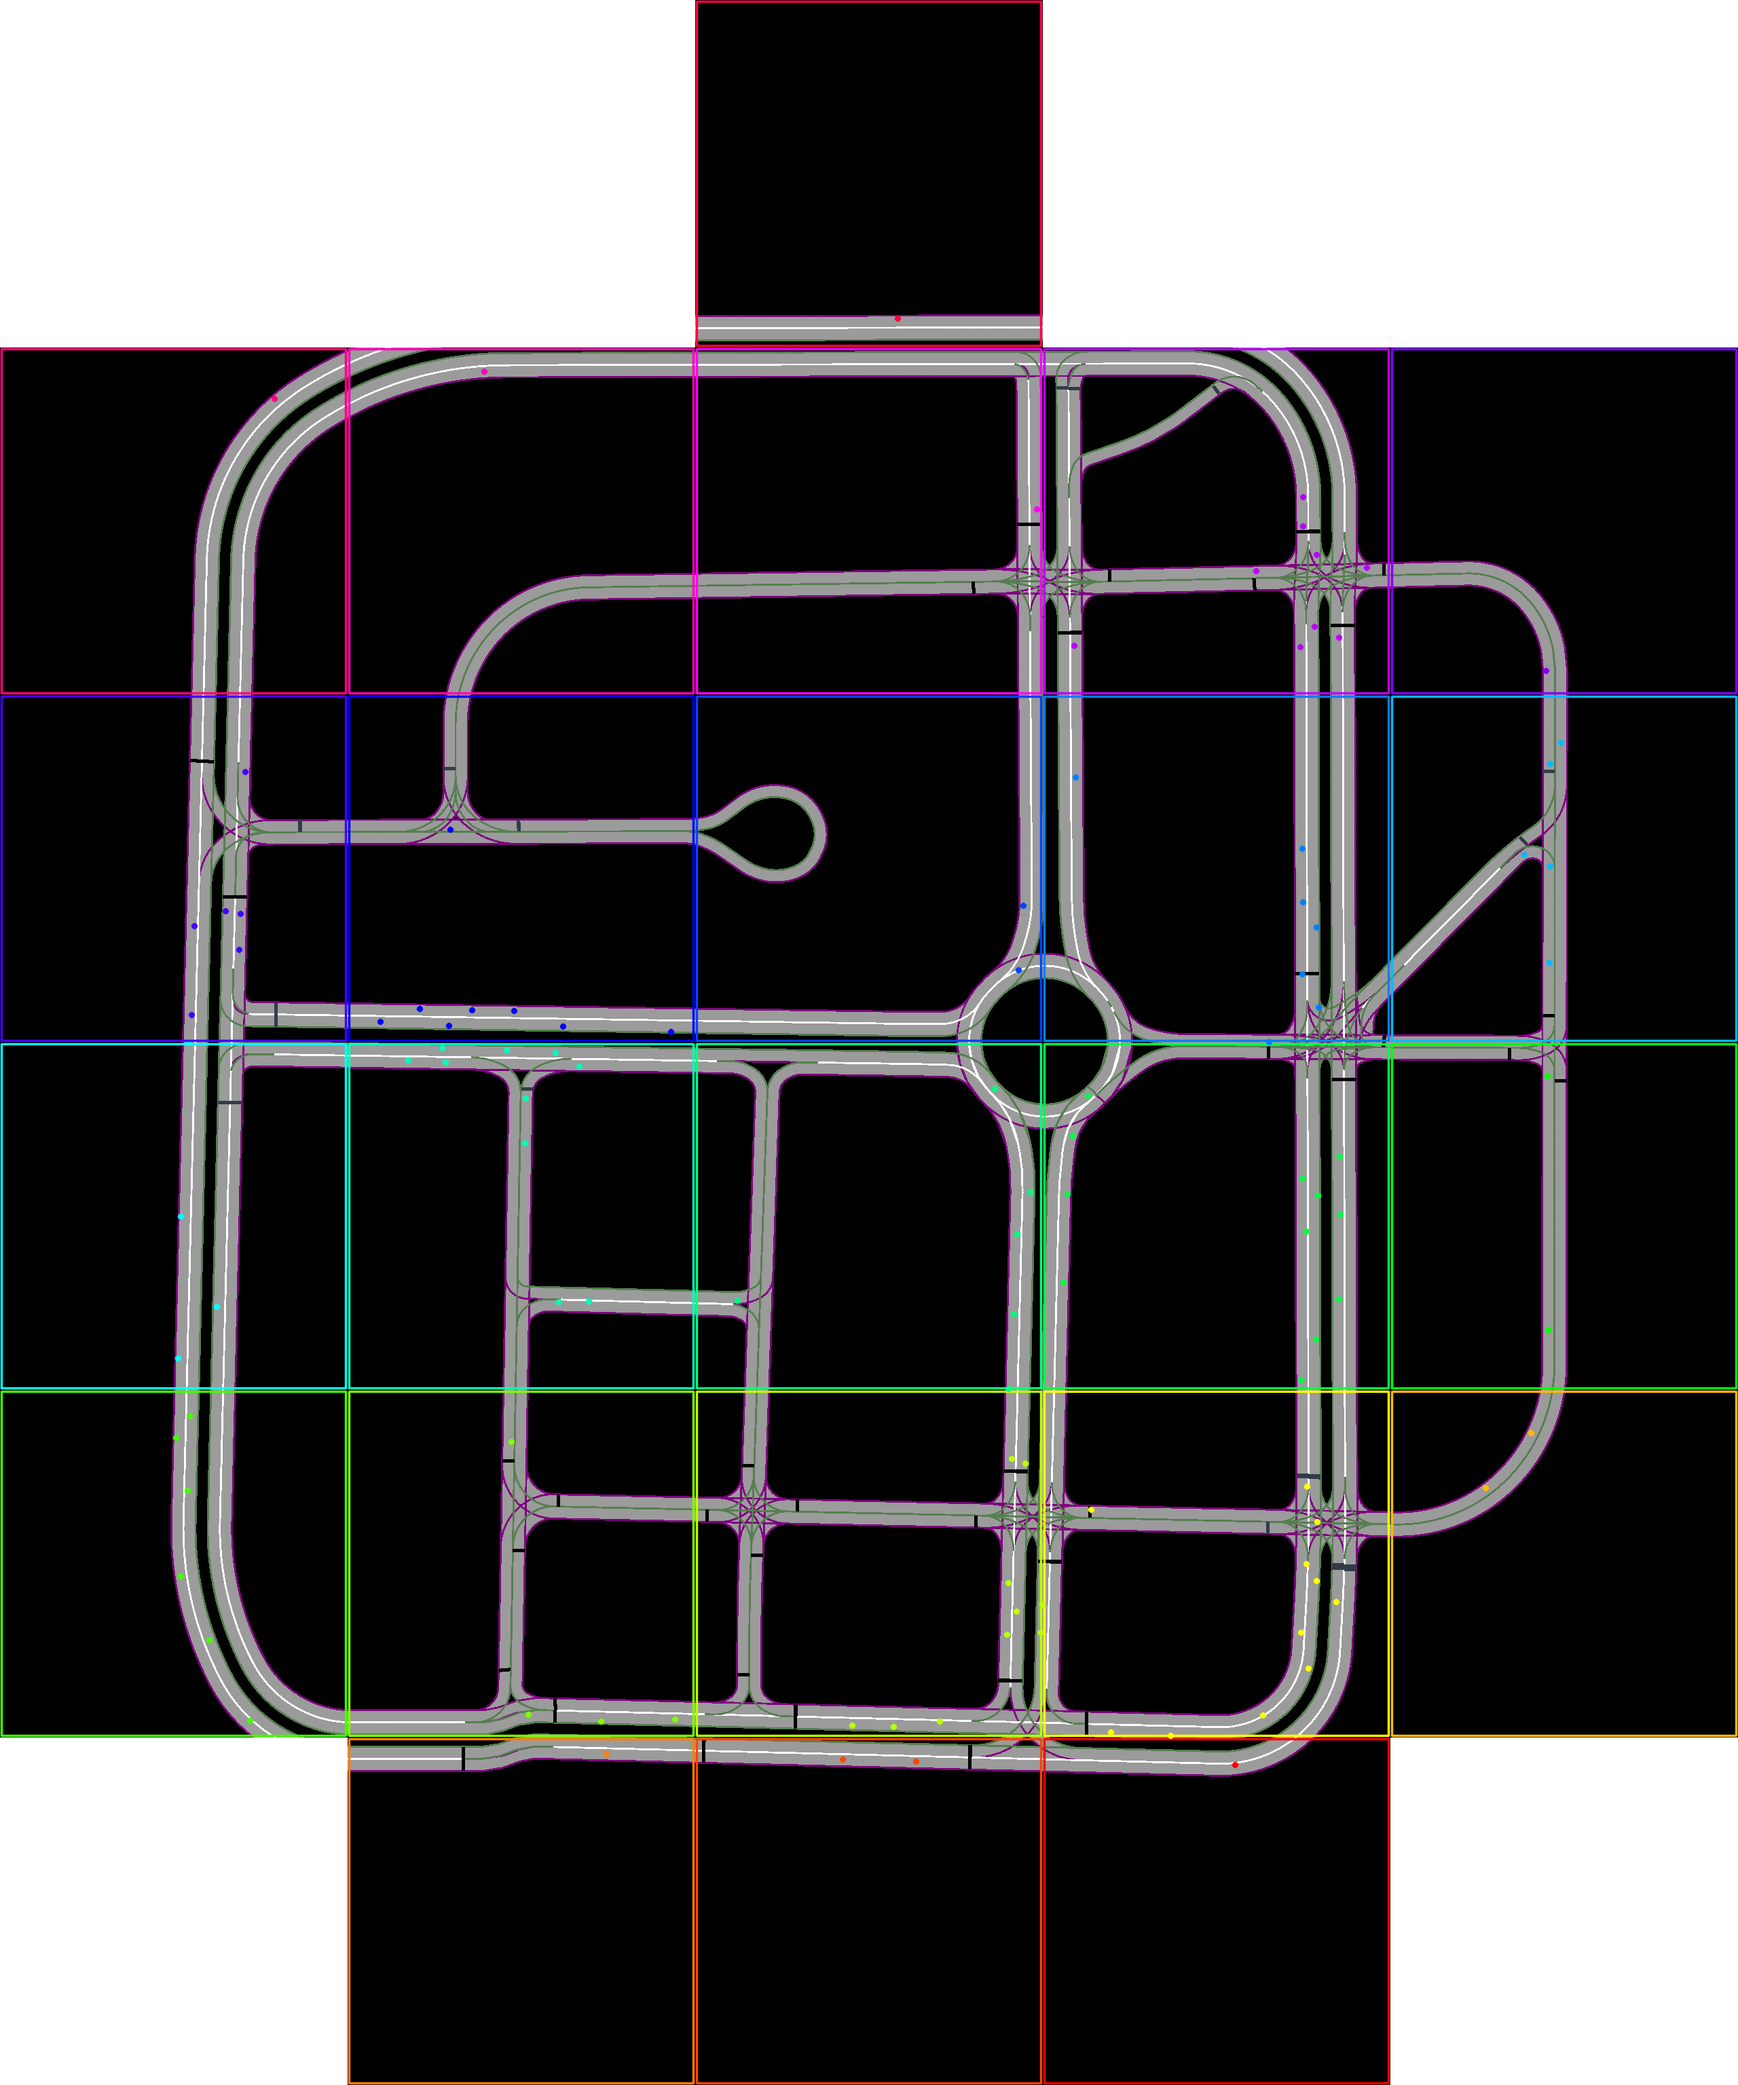
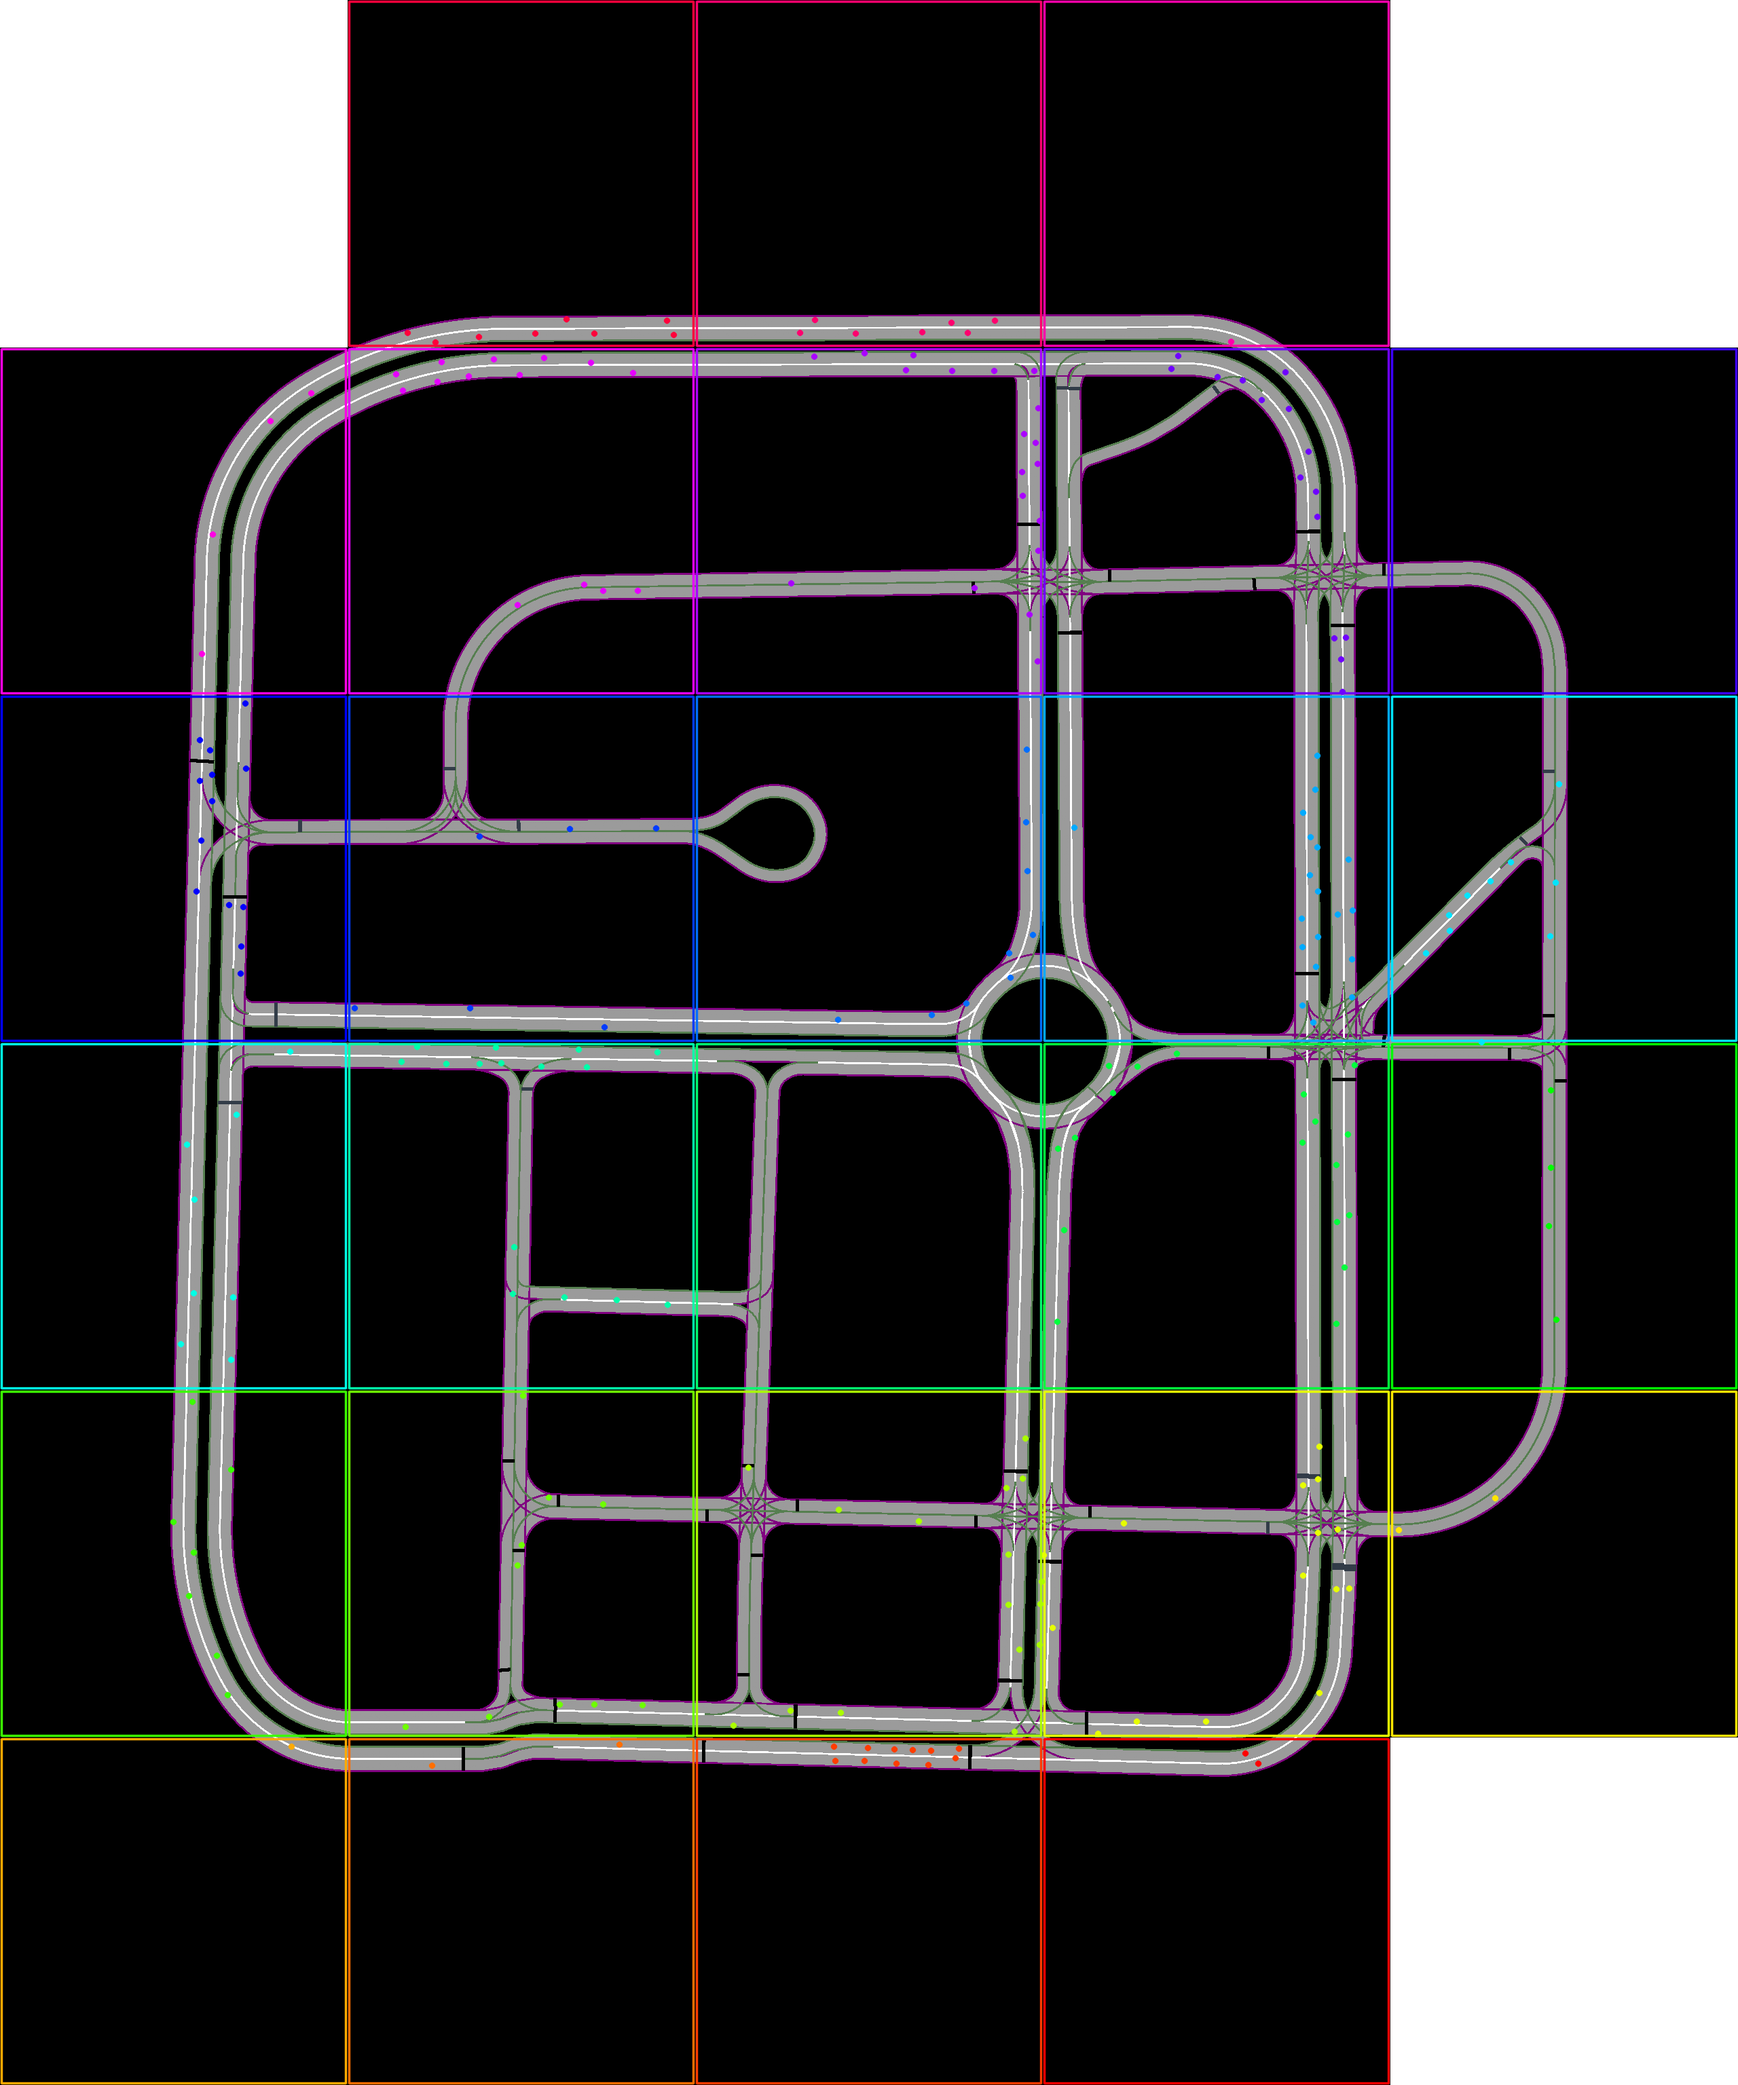
removed the display_progress_bar logic

diff --git a/invertedai_cpp/large/large_initialize.cc b/invertedai_cpp/large/large_initialize.cc
@@ -178,7 +178,6 @@ std::pair<std::vector<Region>, RegionMap>   insert_agents_into_nearest_regions(
         bool get_infractions,
         std::optional<int> random_seed,
         std::optional<std::string> api_model_version,
-        bool display_progress_bar,
         bool return_exact_agents
     ) {
         std::vector<InitializeResponse> all_responses;
@@ -190,9 +189,8 @@ std::pair<std::vector<Region>, RegionMap>   insert_agents_into_nearest_regions(
         session.set_api_key("wIvOHtKln43XBcDtLdHdXR3raX81mUE1Hp66ZRni");
         session.connect();
     
-        const int num_attempts = 1 + static_cast<int>(regions.size()) / ATTEMPT_PER_NUM_REGIONS;
+        const int num_attempts = std::min(10, 1 + static_cast<int>(regions.size()) / ATTEMPT_PER_NUM_REGIONS);
 
-        //!!!! TODO add a progress bar logic
     
         for (size_t i = 0; i < regions.size(); ++i) {
             Region& region = regions[i];
@@ -510,7 +508,6 @@ invertedai::InitializeResponse large_initialize(invertedai::LargeInitializeConfi
         cfg.get_infractions,
         cfg.random_seed,
         cfg.api_model_version,
-        cfg.display_progress_bar,
         cfg.return_exact_agents
     );
 
@@ -553,7 +550,6 @@ LargeInitializeOutput large_initialize_with_regions(invertedai::LargeInitializeC
         cfg.get_infractions,
         cfg.random_seed,
         cfg.api_model_version,
-        cfg.display_progress_bar,
         cfg.return_exact_agents
     );
 

diff --git a/invertedai_cpp/large/main.cpp b/invertedai_cpp/large/main.cpp
@@ -68,7 +68,7 @@ int main() {
     constexpr bool FLIP_X_FOR_THIS_DOMAIN = true; // set to true if using carla maps
 
     // Keep the classic "total_num_agents" knob
-    int total_num_agents = 130;
+    int total_num_agents = 300;
 
     // Canvas hint (used by get_regions_default)
     int width  = 1000;
@@ -111,8 +111,8 @@ int main() {
         session,
         std::pair<float,float>{width/2.f, height/2.f}, // area_shape / hint
         map_center,                                    // map center from location_info
-        initialize_seed,                               // random seed
-        true                                           // show progress
+        initialize_seed                               // random seed
+
     );
     validate_regions_100x100(regions, /*expected=*/100.0);
     std::cout << "Generated " << regions.size() << " regions.\n";
@@ -124,7 +124,6 @@ int main() {
     cfg.random_seed = initialize_seed;
     cfg.get_infractions = true;
     cfg.traffic_light_state_history = std::nullopt;
-    cfg.display_progress_bar = true;
     cfg.return_exact_agents = false;
     cfg.api_model_version = std::nullopt;
     cfg.agent_properties = std::nullopt;  // let API sample

diff --git a/invertedai_cpp/large/larger_helpers.cc b/invertedai_cpp/large/larger_helpers.cc
@@ -83,8 +83,7 @@ namespace invertedai {
         Session& session,
         std::optional<std::pair<float,float>> area_shape,
         std::pair<float,float> map_center,
-        std::optional<int> random_seed,
-        bool display_progress_bar
+        std::optional<int> random_seed
     ) {
         if (!agent_count_dict.has_value()) {
             if (!total_num_agents.has_value()) {
@@ -114,8 +113,7 @@ namespace invertedai {
             total_num_agents,         // total_num_agents (deprecated)
             agent_count_dict,        // agent_count_dict
             session,
-            random_seed,
-            display_progress_bar
+            random_seed
         );
     
         return new_regions;
@@ -216,8 +214,7 @@ std::vector<Region> get_number_of_agents_per_region_by_drivable_area(
     std::optional<std::map<AgentType,int>> agent_count_dict,
    
     Session& session,
-    std::optional<int> random_seed,
-    bool display_progress_bar
+    std::optional<int> random_seed
 )  {
     if (!agent_count_dict.has_value()) {
         if (!total_num_agents.has_value()) {

diff --git a/invertedai_cpp/large/large_helpers.h b/invertedai_cpp/large/large_helpers.h
@@ -19,8 +19,7 @@
         std::optional<int> total_num_agents,
         std::optional<std::map<AgentType,int>> agent_count_dict,
         Session& session,
-        std::optional<int> random_seed,
-        bool display_progress_bar
+        std::optional<int> random_seed
     );
 
 
@@ -31,8 +30,7 @@
         Session& session,
         std::optional<std::pair<float,float>> area_shape = std::nullopt,
         std::pair<float,float> map_center = {0.0f, 0.0f},
-        std::optional<int> random_seed = std::nullopt,
-        bool display_progress_bar = false
+        std::optional<int> random_seed = std::nullopt
     );
         std::vector<Region> get_number_of_agents_per_region_by_drivable_area(
         const std::string& location,
@@ -40,8 +38,7 @@
         std::optional<int> total_num_agents,
         std::optional<std::map<AgentType,int>> agent_count_dict,
         Session& session,
-        std::optional<int> random_seed,
-        bool display_progress_bar
+        std::optional<int> random_seed
     );
 
 

diff --git a/invertedai_cpp/large/large_initialize.h b/invertedai_cpp/large/large_initialize.h
@@ -26,7 +26,6 @@ struct LargeInitializeConfig {
     bool get_infractions = false;
     std::optional<int> random_seed = std::nullopt;
     std::optional<std::string> api_model_version = std::nullopt;
-    bool display_progress_bar = true;
     bool return_exact_agents = false;
 };
 
@@ -50,7 +49,6 @@ std::pair<std::vector<invertedai::Region>, std::vector<invertedai::InitializeRes
     bool get_infractions = false,
     std::optional<int> random_seed = std::nullopt,
     std::optional<std::string> api_model_version = std::nullopt,
-    bool display_progress_bar = true,
     bool return_exact_agents = false
 );
 
